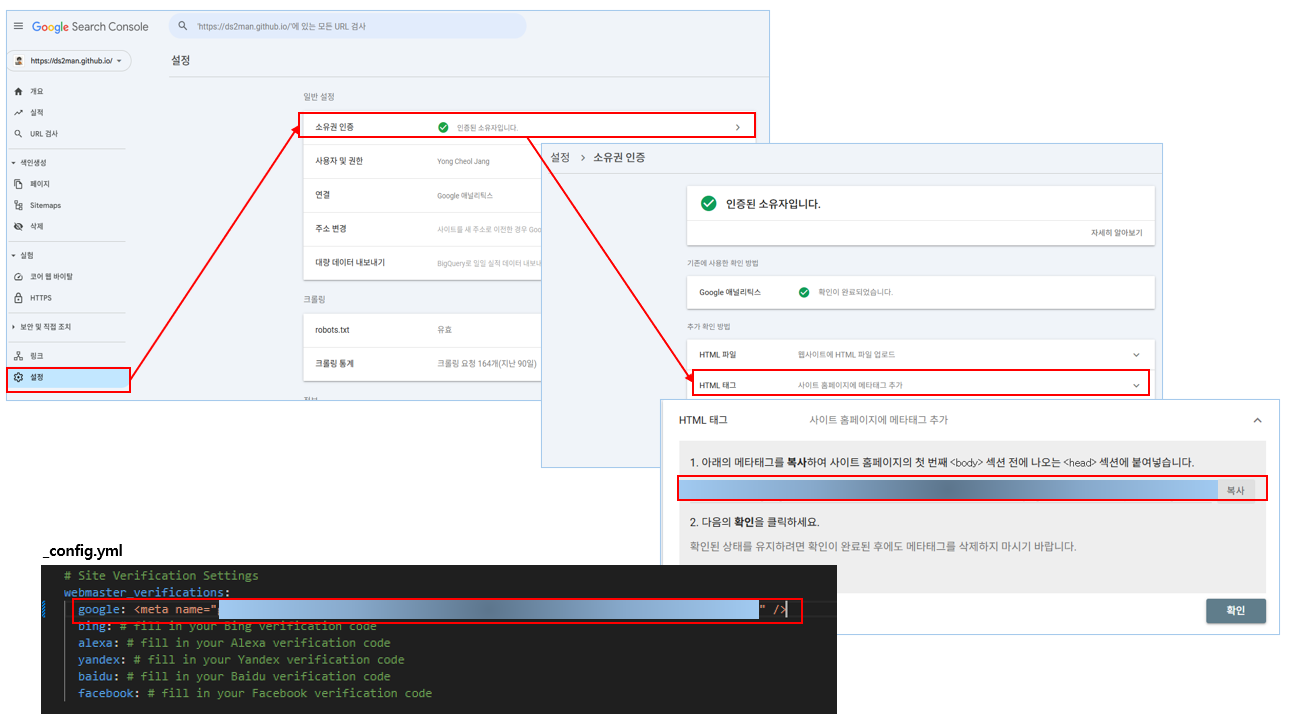
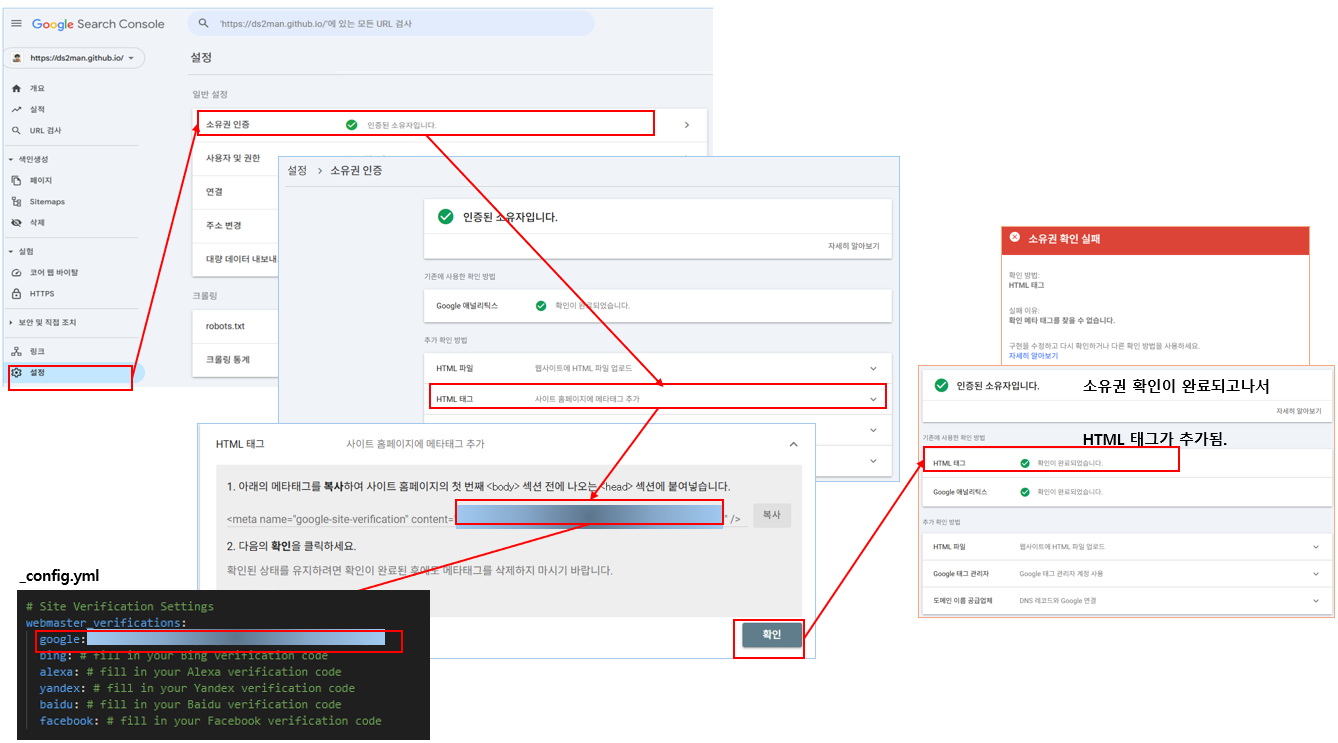
20250620

diff --git a/_posts/etc/2024-12-11-Blog2.md b/_posts/etc/2024-12-11-Blog2.md
@@ -9,6 +9,10 @@ math: true
 pin: true
 ---
 
+<!--
+https://jaehee-kim24.github.io/posts/github블로그_검색노출하기/
+-->
+
 In the previous post, I explained how to track blog visitors using GA4. However, the blog still doesn't appear in Google or Naver search results. Let me share my blog with you.
 
 ## *Google Search Console*
@@ -28,13 +32,13 @@ In addition, it offers detailed error reports that help you identify and fix **S
 - Verify Ownership
 	- Note. Since I previously set up **Google Analytics 4 (GA4)** and added the GA tracking code to your blog’s  `_includes/head.html` file, Google Search Console could automatically verify your ownership through that existing connection.
 	- However, after writing this post, I checked again and found that while ownership was verified, the site was not being indexed. It seems that although ownership was recognized when the property was added to GSC, it was not fully verified in a way that GSC accepts, so the `sitemap.xml` was not properly indexed. Therefore, I performed some additional steps after this post. First, I copied the meta tag from **Settings > Ownership Verification > HTML tag** and pasted it into the `_config.yml` file of my homepage.
+- Submit a Sitemap
+	- We need a sitemap to help search engine robots crawl our site.
+	- After pushing the homepage code, GitHub automatically generates the `sitemap.xml` file. So, when you visit [http://ds2man.github.io/sitemap.xml](http://ds2man.github.io/sitemap.xml), you can see the already generated sitemap.xml file.
 - Request Indexing
 	- Note. If you publish a new blog post and want it to show up in Google faster:
 	  URL Inspection → Click **“Request Indexing”**
-- Submit a Sitemap (optional but highly recommended)
-	- Note. If your blog doesn’t already have a `sitemap.xml`, you can:
-	- Use the [Jekyll Sitemap plugin](https://github.com/jekyll/jekyll-sitemap) if you're using Jekyll.
-	- Or generate one using tools like [xml-sitemaps.com](https://www.xml-sitemaps.com/).
+
 
 ![Add Blog to Google Search Console](/assets/img/blog/2024-12-11-Blog2_1.png)
 _Add Blog to Google Search Console_

diff --git a/_posts/etc/2025-06-08-ASCII Art.md b/_posts/etc/2025-06-08-ASCII Art.md
@@ -3,8 +3,8 @@ title: ASCII Art
 description: Let's use ASCII Art.
 author: DS2Man
 date: 2025-06-08 11:00:00 +0000
-categories: [Etc, ASCII Art]
-tags: [Blog]
+categories: [zEtc, ASCII Art]
+tags: [ASCII Art]
 math: true
 pin: true
 ---
